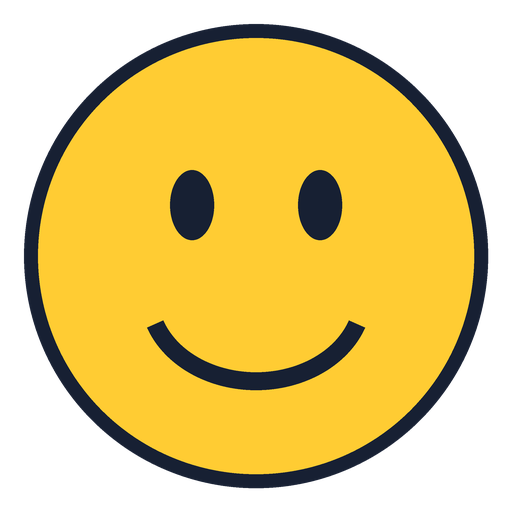
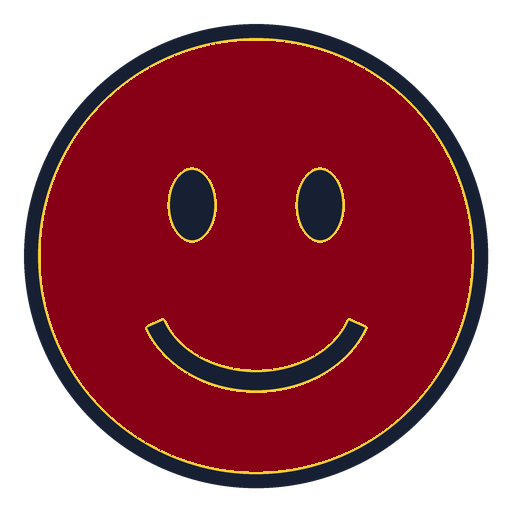
Add Name

diff --git a/index.html b/index.html
@@ -6,7 +6,7 @@
 </head>
 <body style="font-family: sans-serif; text-align: center;">
 
-  <h1>Hello! I'm [your name]</h1>
+  <h1>Hello! I'm Da</h1>
 
   <p>This is my first web page, made with GitHub Pages.</p>
 
